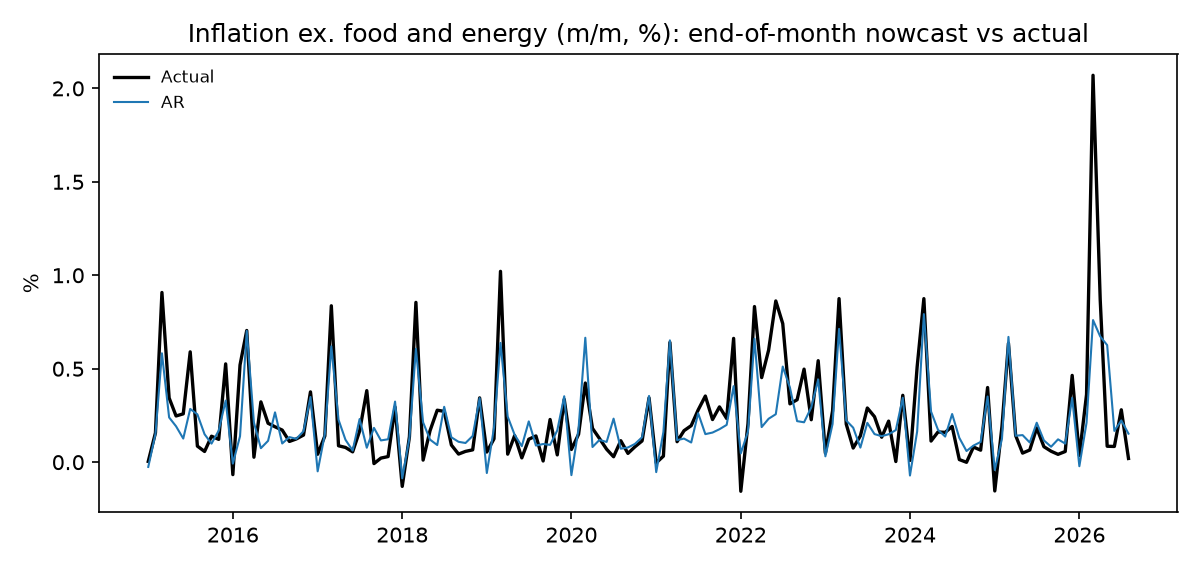
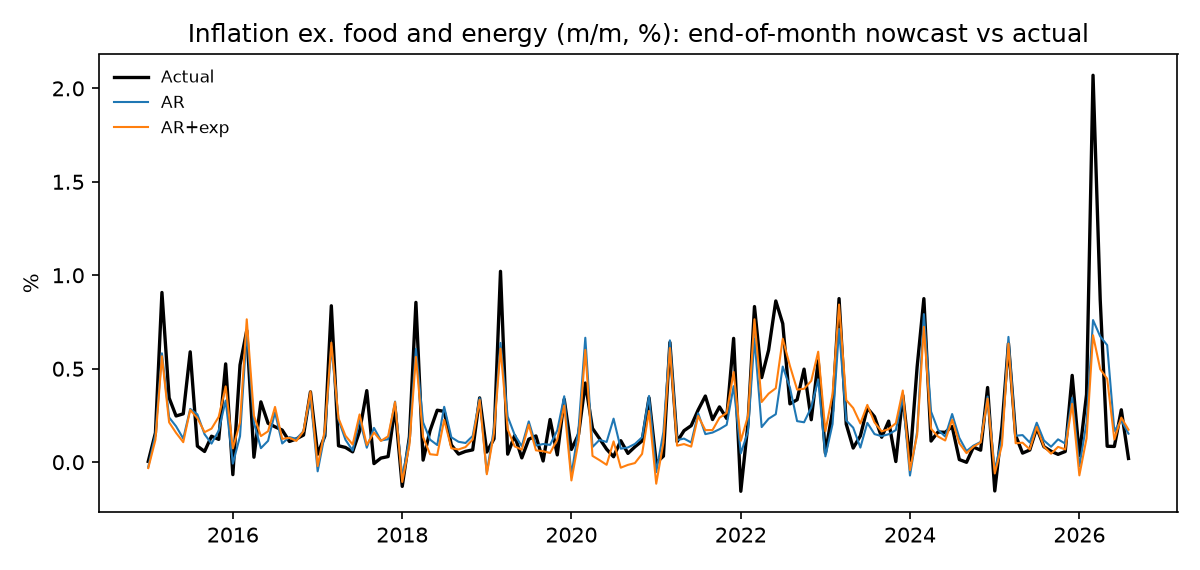
Update results with AR+exp benchmark and robustness check

diff --git a/README.md b/README.md
@@ -17,18 +17,20 @@ Out-of-sample nowcasts, expanding window, 2015-01 to 2026-08 (140 months). RMSE 
 | Combination | 0.955 | 0.949 | 0.951 | 0.965 | 0.098 |
 | U-MIDAS | 0.969 | 0.950 | 0.958 | 0.966 | 0.256 |
 | MIDAS-Almon | 0.983 | 0.943 | 0.968 | 0.967 | 0.283 |
+| AR+exp | 0.974 | 0.974 | 0.974 | 0.974 | 0.211 |
 | Ridge | 0.959 | 0.944 | 0.967 | 0.978 | 0.360 |
 | AR | 1.000 | 1.000 | 1.000 | 1.000 | – |
 | LASSO | 1.045 | 1.036 | 1.003 | 1.018 | 0.589 |
 | XGBoost | 1.007 | 1.027 | 1.004 | 1.041 | 0.209 |
 | RW | 1.523 | 1.523 | 1.523 | 1.523 | 0.000 |
 
-Best end-of-month model: **Combination**, relative RMSE **0.965** (Diebold-Mariano p-value vs AR: 0.098).
+Best end-of-month model: **Combination**, relative RMSE **0.965** (Diebold-Mariano p-value vs AR: 0.098). Against **AR+exp** (the AR plus the lagged expectations survey, which every high-frequency model also uses) its relative RMSE is **0.991** (p-value: 0.674). Robustness: 2026-03 accounts for 17% of the AR's squared errors; without it the relative RMSE is 0.954.
 
 **Inflation excluding food and energy**
 
 | Model | Week 1 | Week 2 | Week 3 | Week 4 | DM p-value (week 4) |
 |---|---|---|---|---|---|
+| AR+exp | 0.983 | 0.983 | 0.983 | 0.983 | 0.670 |
 | AR | 1.000 | 1.000 | 1.000 | 1.000 | – |
 | MIDAS-Almon | 0.993 | 1.025 | 1.099 | 1.020 | 0.681 |
 | Combination | 0.989 | 1.008 | 1.064 | 1.033 | 0.612 |
@@ -38,7 +40,7 @@ Best end-of-month model: **Combination**, relative RMSE **0.965** (Diebold-Maria
 | XGBoost | 1.068 | 1.083 | 1.168 | 1.165 | 0.127 |
 | RW | 2.065 | 2.065 | 2.065 | 2.065 | 0.000 |
 
-Best end-of-month model: **AR**, relative RMSE **1.000** (Diebold-Mariano p-value vs AR: –).
+Best end-of-month model: **AR+exp**, relative RMSE **0.983** (Diebold-Mariano p-value vs AR: 0.670). Robustness: 2026-03 accounts for 36% of the AR's squared errors; without it the relative RMSE is 0.935.
 <!-- RESULTS:END -->
 
 ![Relative RMSE by week](reports/figures/rel_rmse_headline.png) ![Nowcast vs actual](reports/figures/nowcast_headline.png)
@@ -61,7 +63,7 @@ Best end-of-month model: **AR**, relative RMSE **1.000** (Diebold-Mariano p-valu
   survey) isolates what the daily data add on top of it.
 
 ## Reproduce
-Pinned versions in `environment.yml` (conda-forge); the full run takes about 40 minutes on a laptop.
+Pinned versions in `environment.yml` (conda-forge); the full run takes about 10 minutes on a laptop.
 ```bash
 conda env create -f environment.yml && conda activate inflation-nowcast
 make all        # or: python -m nowcast.pipeline all
